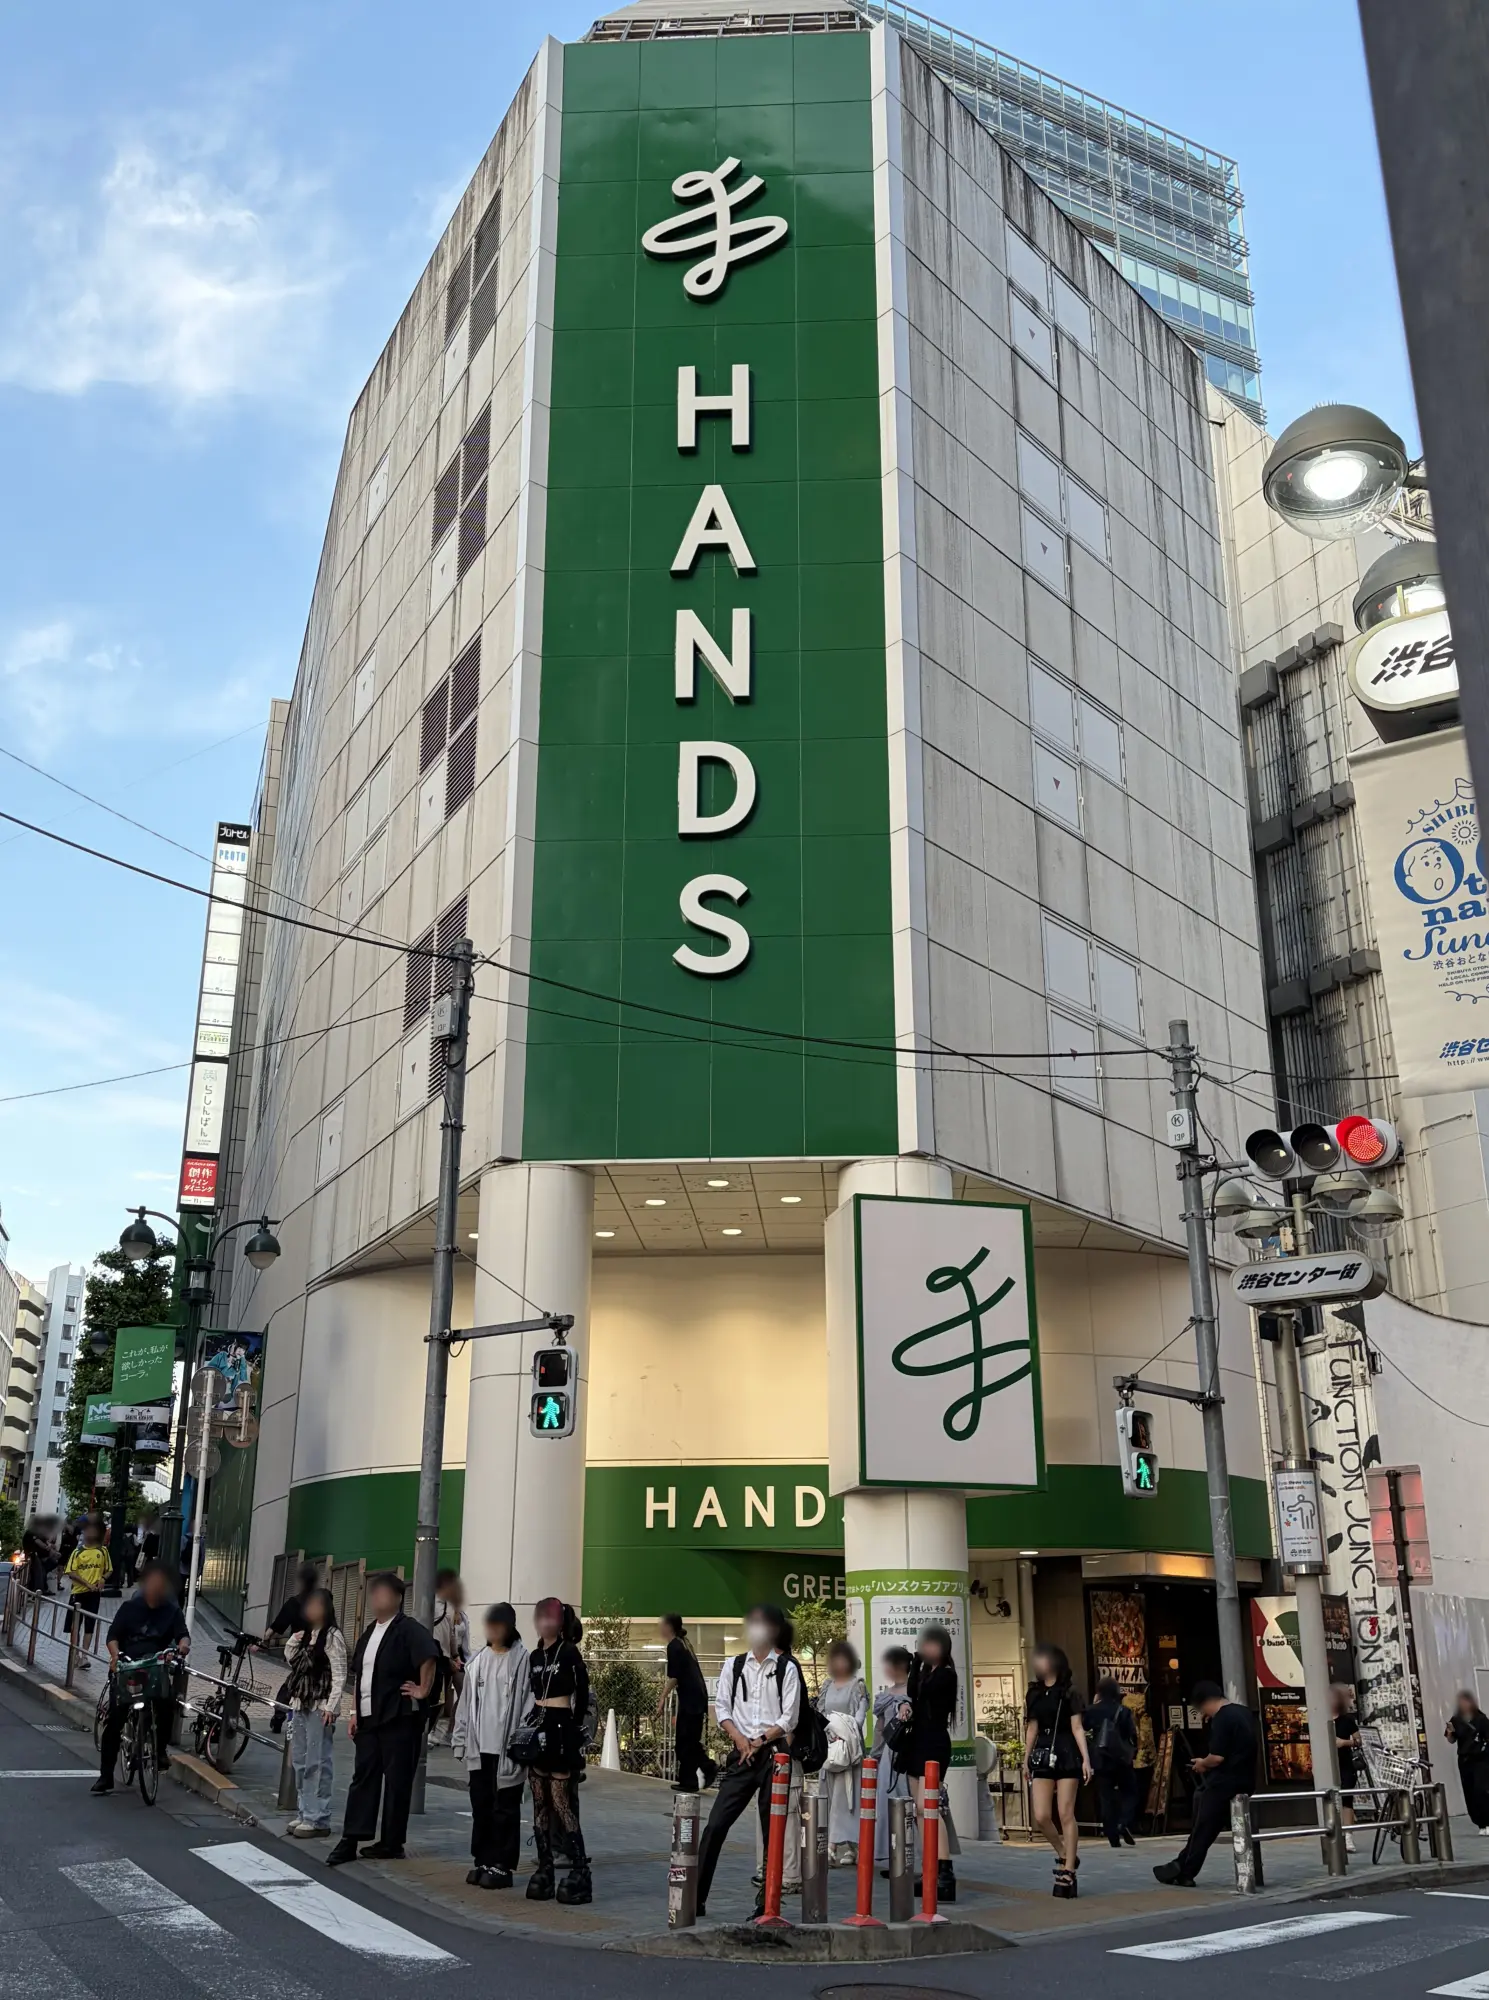
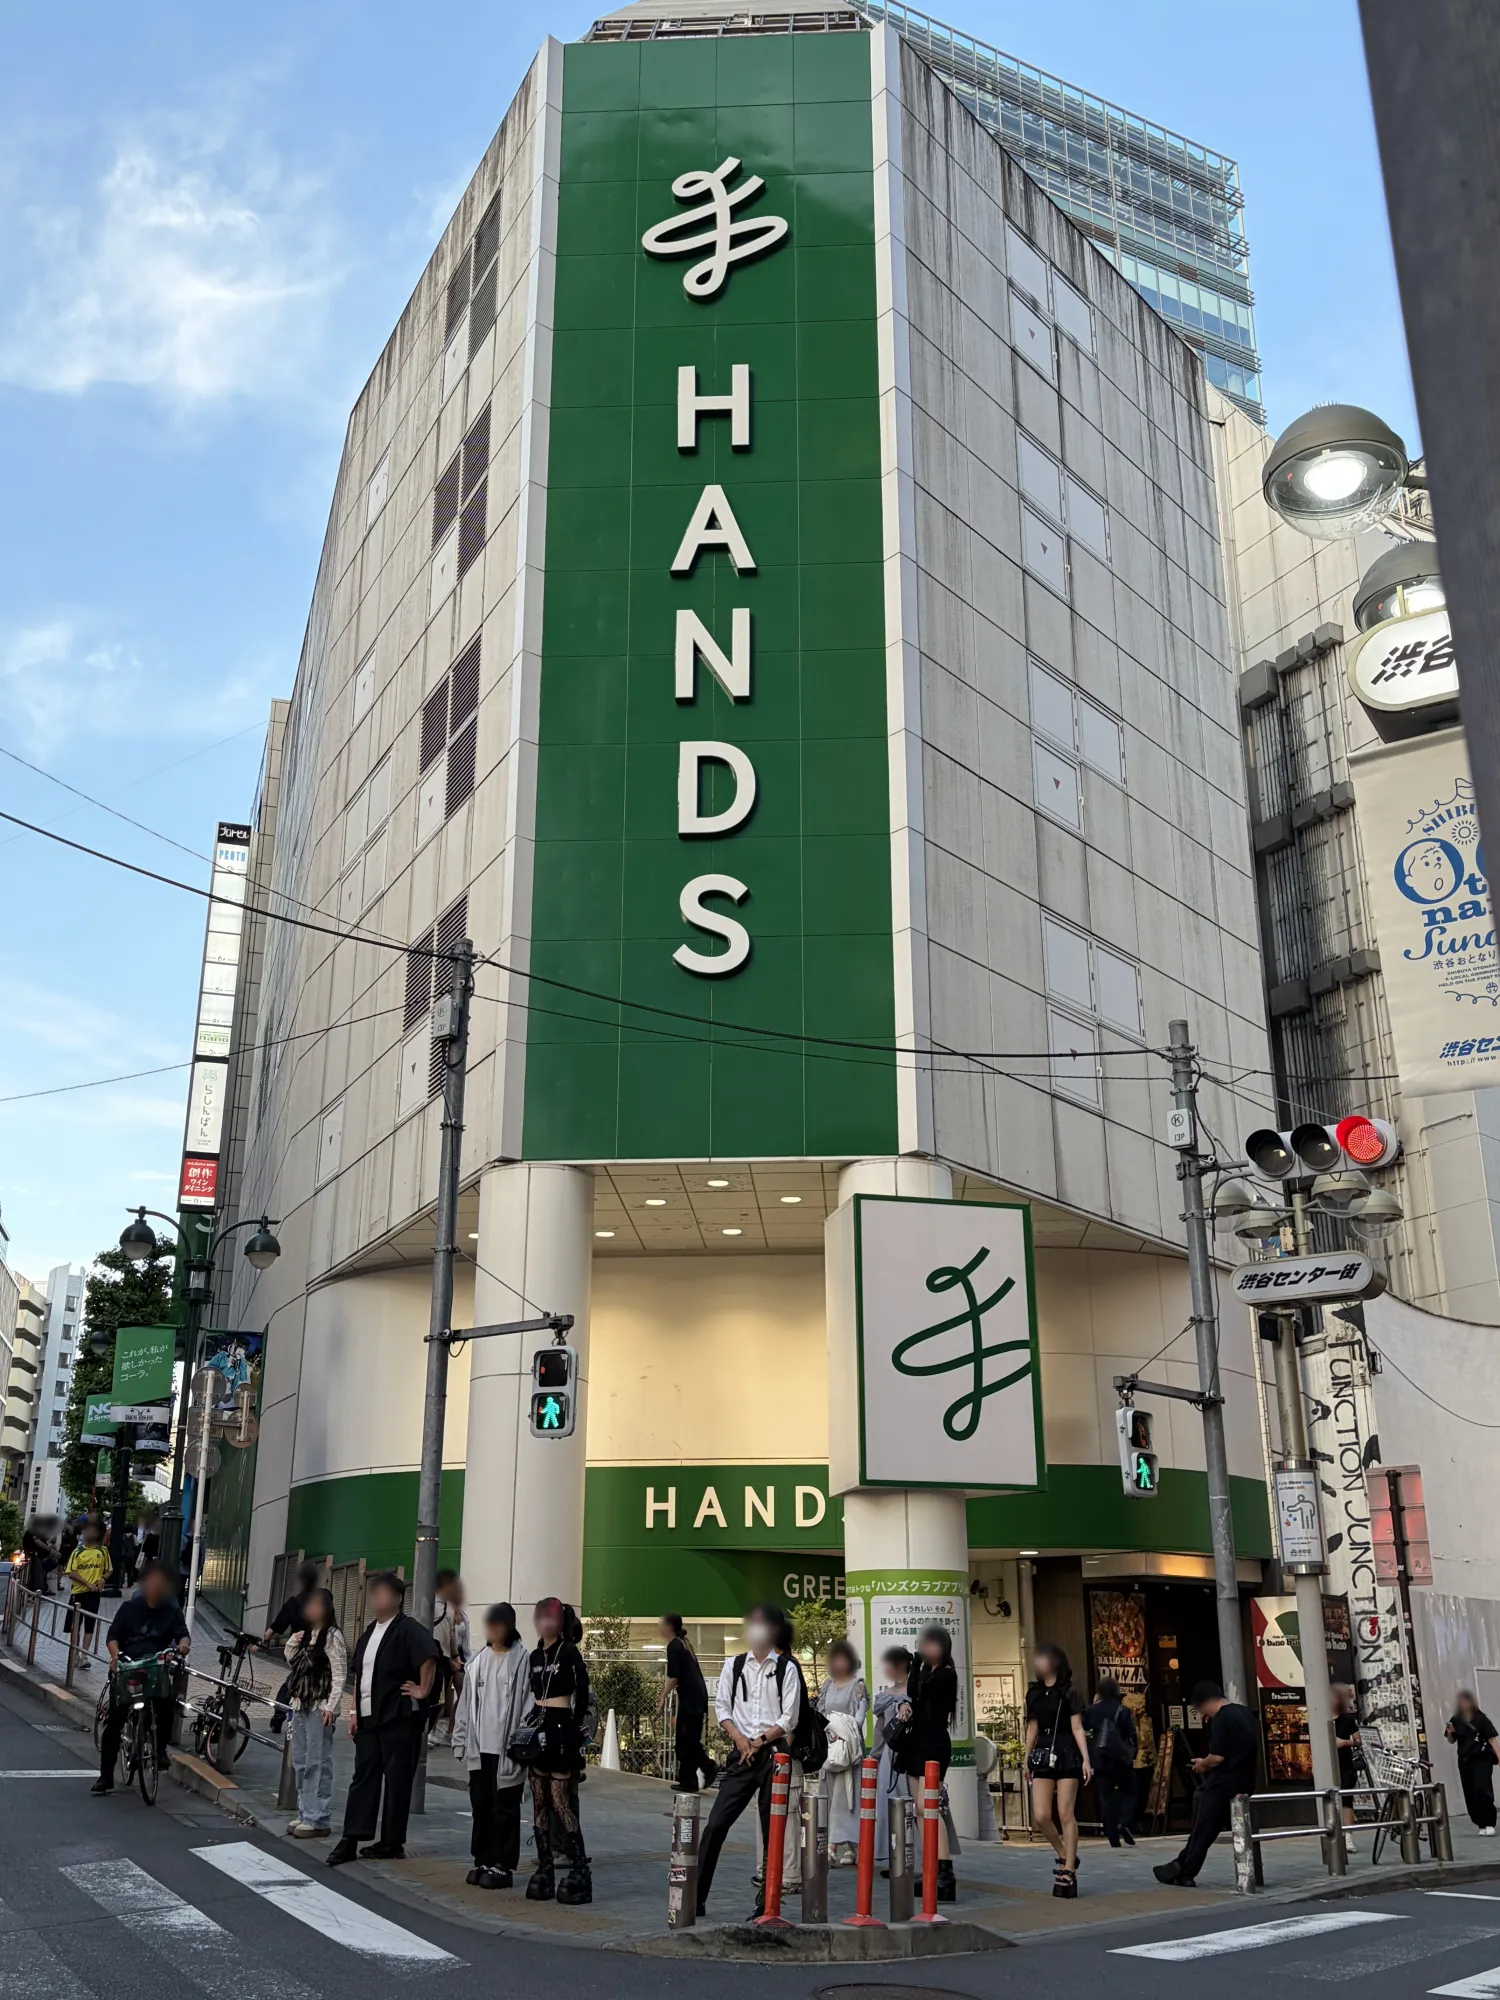
Add files via upload

diff --git a/main.js b/main.js
@@ -48,7 +48,9 @@
   const hero = document.querySelector('.hero');
   const sign = document.querySelector('.sign');
   const word = document.querySelector('.hero__word');
-  let lastWord = '';
+  let tW = 0;
+  addEventListener('resize', () => { tW = 0; });
+  if (document.fonts) document.fonts.ready.then(() => { tW = 0; onScroll(); });
   function heroTick() {
     const r = hero.getBoundingClientRect();
     const total = hero.offsetHeight - innerHeight;
@@ -58,8 +60,15 @@
     sign.style.setProperty('--p', p.toFixed(4));
     hero.classList.toggle('is-after', p > 0.5);
     // 看板の上から順に変わるので、T が先、K が後
-    const w = p < 0.18 ? 'HANDS' : p < 0.72 ? '<i>T</i>HANDS' : p < 1 ? '<i>T</i>HAN<i>K</i>S' : 'THANKS';
-    if (w !== lastWord) { word.innerHTML = w; lastWord = w; }
+    // T は看板が1.61割ほど切り替わってから、K は7割を過ぎてから。どちらもスクロールに合わせて少しずつ
+    const ease = x => x * x * (3 - 2 * x);
+    const t = ease(Math.min(1, Math.max(0, (p - 0.141) / 0.22)));
+    const k = ease(Math.min(1, Math.max(0, (p - 0.68) / 0.16)));
+    word.style.setProperty('--t', t.toFixed(3));
+    // T の幅は実際のフォントで測る（ほかの文字と同じ間隔になるように）
+    if (!tW) { const s = word.querySelector('.hw-t > span'); tW = s.getBoundingClientRect().width / parseFloat(getComputedStyle(word).fontSize); }
+    word.style.setProperty('--tw', tW.toFixed(4) + 'em');
+    word.style.setProperty('--k', k.toFixed(3));
   }
 
   /* ---------- フロア表示 ---------- */
@@ -135,7 +144,13 @@
   const cmp = document.getElementById('compare');
   if (cmp) {
     const range = cmp.querySelector('.compare__range');
-    const set = v => cmp.style.setProperty('--x', v + '%');
+    const tagMay = cmp.querySelector('.compare__tag--before'), tagNov = cmp.querySelector('.compare__tag--after');
+    // 境目より左が5月、右が11月。見えている面積が少ない方の年月をグレーに
+    const set = v => {
+      cmp.style.setProperty('--x', v + '%');
+      tagMay.classList.toggle('is-dim', v < 50);
+      tagNov.classList.toggle('is-dim', v > 50);
+    };
     range.addEventListener('input', () => set(range.value));
     // 指で触ったところに境目を合わせる（縦スクロールはそのまま）
     let drag = false;

diff --git a/style.css b/style.css
@@ -128,7 +128,14 @@ main { padding-right: var(--rail-w); }
   font-size: clamp(34px, 4.6vw, 72px); letter-spacing: .14em; color: var(--green-deep); line-height: 1;
   min-height: 1em;
 }
-.hero__word i { font-style: normal; color: var(--pink); }
+.hero__word { --t: 0; --k: 0; white-space: nowrap; display: block; }
+/* T は幅0から広がる。その分 HANDS が右へなめらかに押し出される */
+.hw-t { display: inline-block; vertical-align: top; overflow: hidden; width: calc(var(--t) * var(--tw, 0.8em)); }
+.hw-t > span { display: inline-block; color: var(--pink); opacity: var(--t); transform: translateY(calc((1 - var(--t)) * -0.4em)); }
+/* D の上に K を重ねて入れ替える */
+.hw-dk { position: relative; display: inline-block; }
+.hw-d { display: inline-block; opacity: calc(1 - var(--k)); }
+.hw-k { position: absolute; left: 0; top: 0; color: var(--pink); opacity: var(--k); }
 
 /* ---------- 章 ---------- */
 .chapter { padding: clamp(80px, 12vw, 160px) var(--pad); position: relative; }
@@ -231,6 +238,8 @@ main { padding-right: var(--rail-w); }
 .compare { cursor: ew-resize; }
 .compare:has(.compare__range:focus-visible) .compare__bar i { outline: 3px solid var(--pink); outline-offset: 2px; }
 .compare__tag { position: absolute; top: 12px; padding: 2px 10px; font-family: var(--sign); font-size: 14px; letter-spacing: .08em; background: rgba(15,61,34,.85); color: var(--white); pointer-events: none; }
+.compare__tag { transition: background .2s, color .2s; }
+.compare__tag.is-dim { background: rgba(120,120,120,.75); color: rgba(255,255,255,.7); }
 .compare__tag--before { left: 12px; }
 .compare__tag--after { right: 12px; }
 .compare__text h3 { margin: 0 0 12px; font-size: clamp(22px, 2.4vw, 30px); font-weight: 900; }
@@ -352,7 +361,7 @@ main { padding-right: var(--rail-w); }
   .sign { height: 86svh; justify-self: center; }
   .hero__stamp { position: static; justify-self: start; }
   .stamp { font-size: 16px; }
-  .hero__word { display: block; font-size: clamp(24px, 9svh, 40px); margin-top: 14px; }
+  .hero__word { font-size: clamp(24px, 9svh, 40px); margin-top: 14px; }
 
   .chapter { padding-top: 56px; padding-bottom: 56px; }
   .chapter__head { grid-template-columns: max-content minmax(0, 40em); margin-bottom: 28px; }

diff --git a/index.html b/index.html
@@ -70,7 +70,7 @@
     <div class="hero__stamp" aria-live="off">
       <span class="stamp stamp--before">2026.05</span>
       <span class="stamp stamp--after">2026.11</span>
-      <span class="hero__word" aria-hidden="true"></span>
+      <span class="hero__word" aria-hidden="true"><span class="hw-t"><span>T</span></span>HAN<span class="hw-dk"><span class="hw-d">D</span><span class="hw-k">K</span></span>S</span>
     </div>
   </div>
 </section>
@@ -101,8 +101,8 @@
   </header>
   <div class="compare-block">
     <div class="compare" id="compare" style="--x: 50%">
-      <img src="img/compare/may.webp" width="1489" height="2000" alt="2026年5月、交差点の角から見たハンズ渋谷店。看板は HANDS。" loading="lazy">
-      <img class="compare__after" src="img/compare/nov.webp" width="1489" height="2000" alt="2026年11月、同じ角から。看板は THANKS。" loading="lazy">
+      <img src="img/compare/may.webp" width="1500" height="2000" alt="2026年5月、交差点の角から見たハンズ渋谷店。看板は HANDS。" loading="lazy">
+      <img class="compare__after" src="img/compare/nov.webp" width="1500" height="2000" alt="2026年11月、同じ角から。看板は THANKS。" loading="lazy">
       <span class="compare__tag compare__tag--before" aria-hidden="true">2026.05</span>
       <span class="compare__tag compare__tag--after" aria-hidden="true">2026.11</span>
       <span class="compare__bar" aria-hidden="true"><i></i></span>
